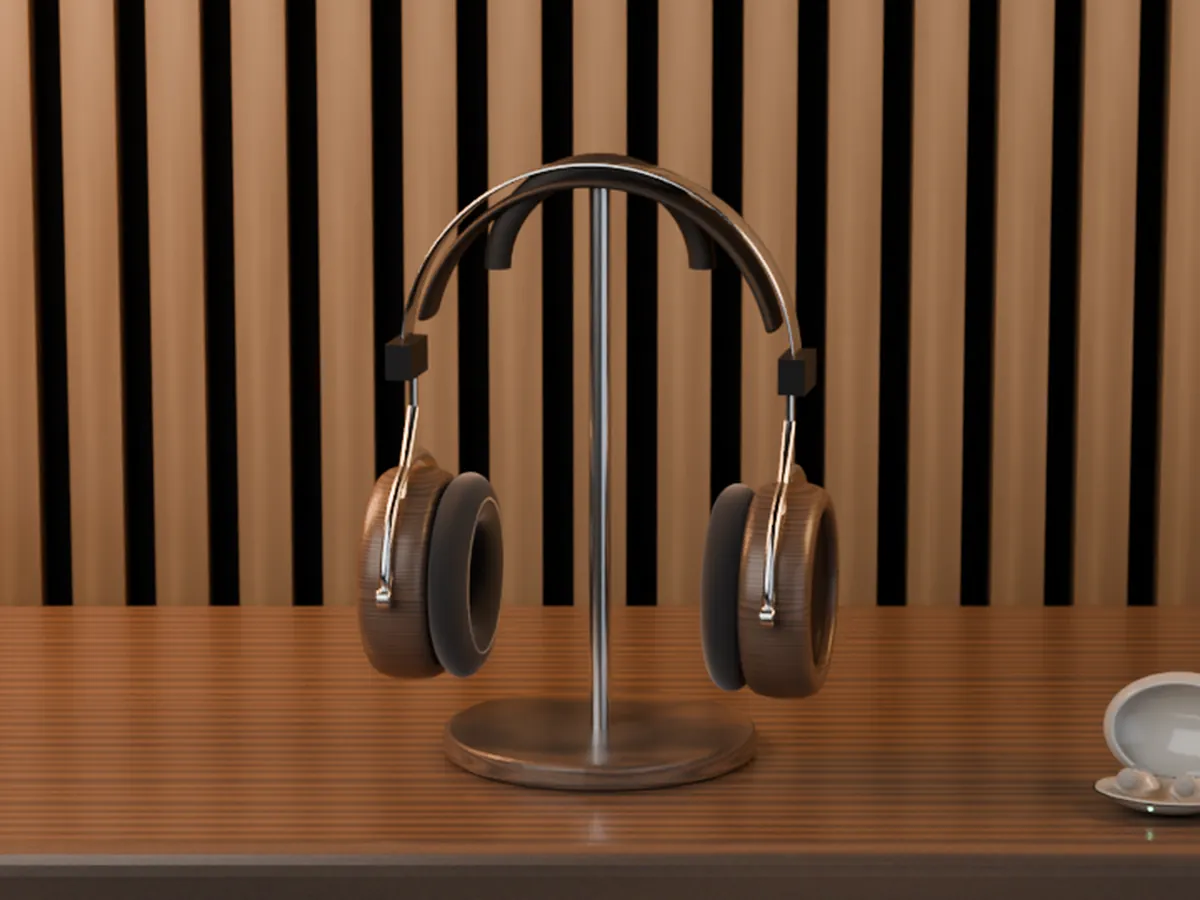
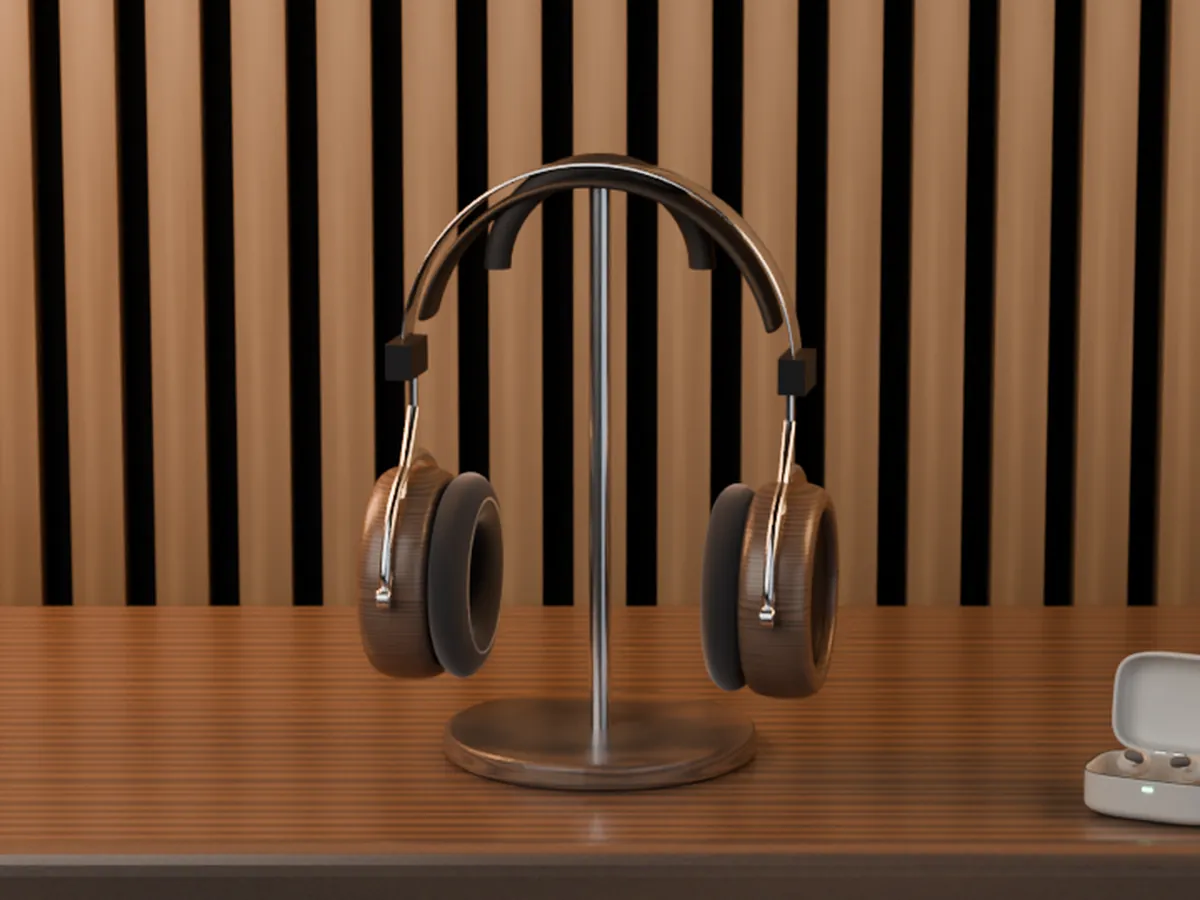
HALRUNE phones: sticky 3D stage and fit-to-frame camera
On phones the listening room's 3D gets its own sticky band under the header.
The controls scroll below it. The camera fits the chosen product, the whole
set or the parts of the headphones into that band with a margin on every side.
Checked at 390x844, 390x640, 360x780 and 430x932 for One, Monitor, Buds and
the headphones taken apart. The hero photo is re-rendered with the new Buds case.

Claude-Session: https://claude.ai/code/session_018BGEB6D8wuTAowK1UCa7K5

Changed region(s): [[0.8942, 0.7156, 1.0, 0.9333]]

diff --git a/src/halrune/scene.js b/src/halrune/scene.js
@@ -230,6 +230,31 @@ export async function createHalruneScene(canvas, { tier, reducedMotion, onReady,
   });
   window.addEventListener('pointerup', (e) => { if (drag && !drag.on && e.pointerId === drag.id) { const h = hit(e); if (h) onPick?.(h); } drag = null; });
 
+  // Phones: fit the camera so the chosen product (or the whole set) fills the stage with a margin on every side.
+  // The view keeps its angle. Only the distance and the aim change. Hidden parts such as the cable do not count.
+  const fitBox = new THREE.Box3(), partBox = new THREE.Box3(), fitSphere = new THREE.Sphere(), dir = new THREE.Vector3();
+  function boxOf(objs) {
+    fitBox.makeEmpty();
+    for (const root of objs) {
+      root.updateWorldMatrix(true, true);
+      root.traverseVisible((o) => {
+        if (!o.isMesh) return;
+        if (!o.geometry.boundingBox) o.geometry.computeBoundingBox();
+        partBox.copy(o.geometry.boundingBox).applyMatrix4(o.matrixWorld);
+        fitBox.union(partBox);
+      });
+    }
+    return fitBox;
+  }
+  function fitNarrow(k, pos, look) {
+    const objs = k === 'room' ? [hpG, budG, ...speakers.map((s) => s.group)] : k === 'exploded' ? [hpG] : [groups[selected]];
+    boxOf(objs).getBoundingSphere(fitSphere);
+    dir.copy(pos).sub(look).normalize();
+    const vfov = THREE.MathUtils.degToRad(camera.fov), hfov = 2 * Math.atan(Math.tan(vfov / 2) * camera.aspect);
+    const dist = (fitSphere.radius * (k === 'room' ? 1.02 : 1.12)) / Math.sin(Math.min(vfov, hfov) / 2);
+    look.copy(fitSphere.center);
+    pos.copy(fitSphere.center).addScaledVector(dir, dist);
+  }
   const cam = { pos: new THREE.Vector3(...VIEWS.room[0]), look: new THREE.Vector3(...VIEWS.room[1]) };
   const tp = new THREE.Vector3(), tl = new THREE.Vector3(), pivot = new THREE.Vector3();
   stage.onFrame((dt, now) => {
@@ -261,7 +286,7 @@ export async function createHalruneScene(canvas, { tier, reducedMotion, onReady,
     const key2 = view === 'room' ? 'room' : view === 'exploded' ? 'exploded' : selected;
     const [p, l] = VIEWS[narrow() && VIEWS[key2 + 'Narrow'] ? key2 + 'Narrow' : key2];
     tl.set(...l); tp.set(...p);
-    if (narrow() && key2 !== 'room') tp.sub(tl).multiplyScalar(1.1).add(tl);
+    if (narrow()) fitNarrow(key2, tp, tl);
     pivot.copy(tl);
     tp.sub(pivot).applyAxisAngle(THREE.Object3D.DEFAULT_UP, yaw + (reducedMotion ? 0 : Math.sin(now * 0.15) * 0.03)).add(pivot);
     cam.pos.lerp(tp, sm(2.2));
@@ -286,5 +311,17 @@ export async function createHalruneScene(canvas, { tier, reducedMotion, onReady,
     setLevels(l) { levels = l; },
     setActive(on) { active = on; },
     groups,
+    // Test helper: the chosen product's box on screen, in canvas pixels.
+    screenBox() {
+      const k = view === 'room' ? 'room' : view === 'exploded' ? 'exploded' : selected;
+      const objs = k === 'room' ? [hpG, budG, ...speakers.map((sp) => sp.group)] : k === 'exploded' ? [hpG] : [groups[selected]];
+      const b = boxOf(objs), v = new THREE.Vector3(), r = { x0: Infinity, y0: Infinity, x1: -Infinity, y1: -Infinity };
+      for (let i = 0; i < 8; i++) {
+        v.set(i & 1 ? b.max.x : b.min.x, i & 2 ? b.max.y : b.min.y, i & 4 ? b.max.z : b.min.z).project(camera);
+        const x = (v.x + 1) / 2 * canvas.clientWidth, y = (1 - v.y) / 2 * canvas.clientHeight;
+        r.x0 = Math.min(r.x0, x); r.x1 = Math.max(r.x1, x); r.y0 = Math.min(r.y0, y); r.y1 = Math.max(r.y1, y);
+      }
+      return { ...r, w: canvas.clientWidth, h: canvas.clientHeight };
+    },
   };
 }

diff --git a/src/halrune/style.css b/src/halrune/style.css
@@ -225,9 +225,11 @@ h1,h2,h3{font-family:var(--h-head);font-weight:500;letter-spacing:-.015em;text-w
   .h-lede{margin-bottom:18px}
   .h-grid{grid-template-columns:minmax(0,1fr)}
   .h-head{grid-template-columns:1fr}
-  .h-room{flex-direction:column;justify-content:flex-end;padding:52vh 0 0;min-height:auto}
-  .h-stage{bottom:auto;height:54vh}
-  .h-panel{width:100%;border-radius:0;border-left:0;border-right:0;background:rgba(15,16,17,.96)}
+  /* Phones: the 3D stage gets its own sticky band under the header. The controls scroll below it. */
+  .h-room{display:block;padding:0;min-height:auto;overflow:clip}
+  .h-stage{position:sticky;inset:auto;top:var(--h-top,57px);height:min(46svh,400px);z-index:2;border-bottom:1px solid var(--h-line)}
+  .h-panel{width:100%;border-radius:0;border:0;background:#0f1011;backdrop-filter:none;-webkit-backdrop-filter:none;padding-bottom:28px}
+  .h-room .h-opt input,.h-room .h-panel button{scroll-margin-top:calc(var(--h-top,57px) + min(46svh,400px) + 16px);scroll-margin-bottom:90px}
   .h-foot-cols{grid-template-columns:minmax(0,1fr)}
   .h-bar-item{display:none}.h-bar{gap:8px}.h-bar-price{font-size:16px;margin-right:auto}
   .h-add,.h-checkout{padding:12px 12px;font-size:13px;white-space:nowrap}

diff --git a/src/halrune/main.js b/src/halrune/main.js
@@ -224,13 +224,19 @@ async function start3d() {
     if (!scene) return fallback();
     for (const h of ORDER) scene.setFinish(h, choice[h]);
     scene.select(handle);
-    if (params.has('still')) { window.__halrune = scene; return; }
+    if (params.has('still') || params.has('debug3d')) window.__halrune = scene;
+    if (params.has('still')) return;
     const io = new IntersectionObserver((en) => { const on = en.some((e) => e.isIntersecting); scene.setActive(on); });
     io.observe($('#room'));
   } catch {
     fallback();
   }
 }
+
+// The phone stage sticks just under the header, so the page needs the header's real height.
+const setTop = () => document.documentElement.style.setProperty('--h-top', `${$('.h-top').offsetHeight}px`);
+setTop();
+window.addEventListener('resize', setTop);
 
 renderFinishes();
 renderChart();
